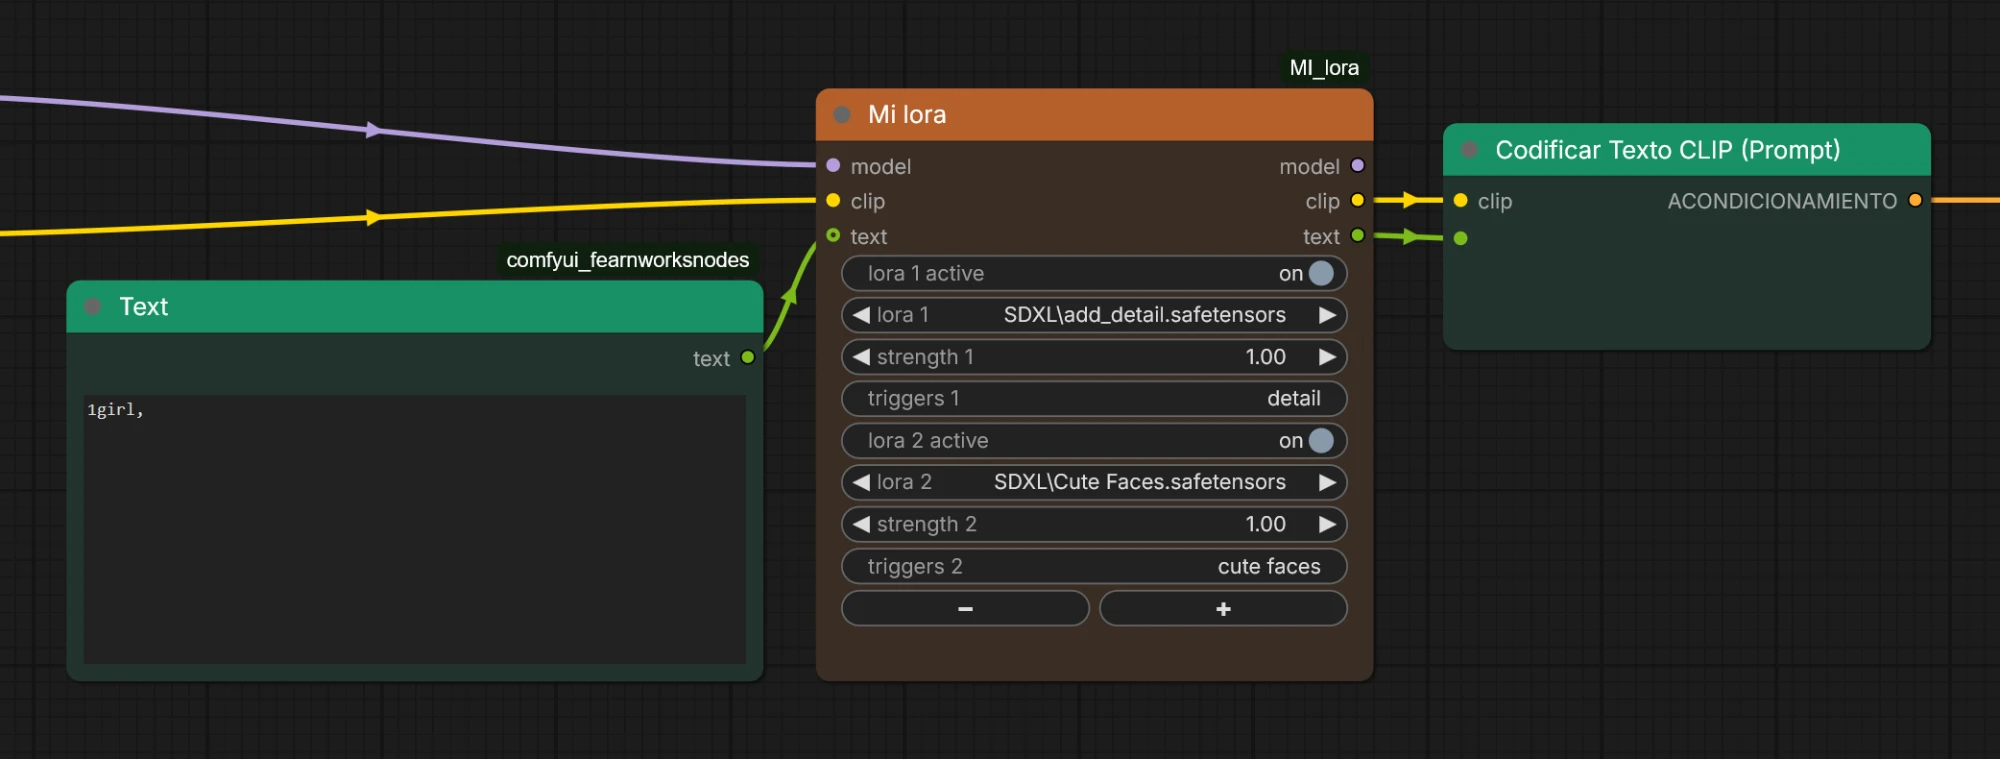
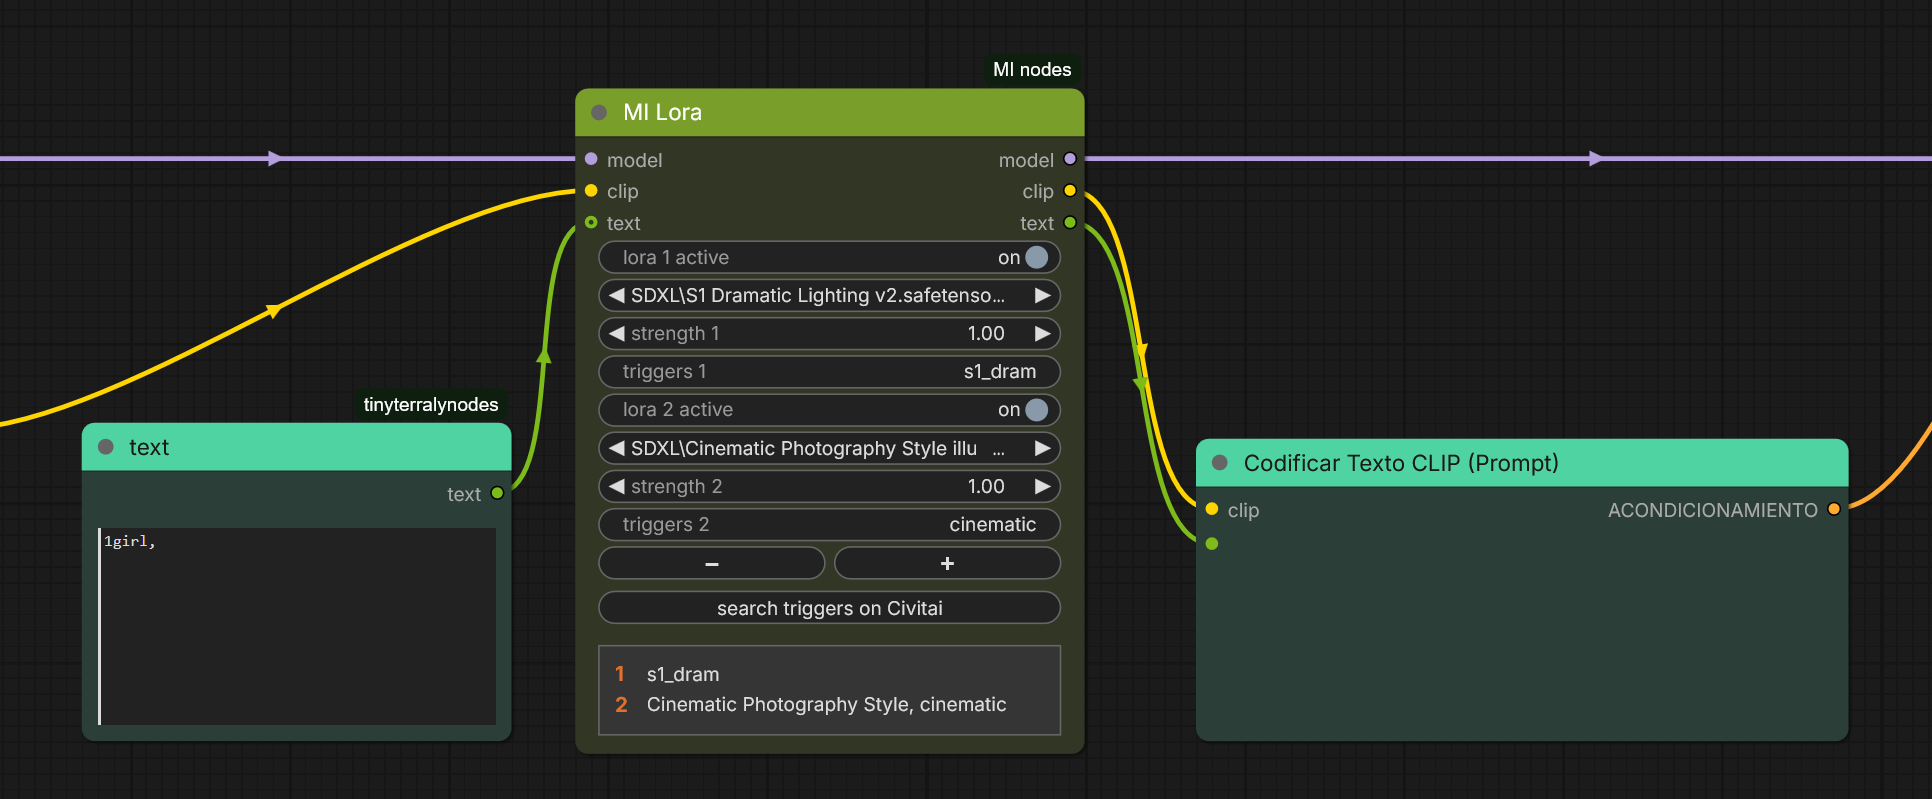
Add Civitai trigger lookup, new screenshot and README (synced with the MI nodes pack)

diff --git a/js/mi_lora.js b/js/mi_lora.js
@@ -158,6 +158,157 @@ app.registerExtension({
                 },
             });
 
+            // Civitai line: looks the active LoRAs up by file hash and lists their trigger words
+            // in a framed box; click a result to put its words in that row's `triggers` field
+            const M = 15, PAD = 10, GAP = 10, LINE_H = 17, NUM_W = 20;
+            // same text size and font as the rest of the node
+            const FONT = `${LiteGraph.NODE_SUBTEXT_SIZE}px ${LiteGraph.DEFAULT_FONT || "sans-serif"}`;
+            const civ = { state: "idle", rows: [] };
+            const measure = document.createElement("canvas").getContext("2d");
+            const fit = () => {
+                node.setSize([Math.max(node.size[0], 320), node.computeSize()[1]]);
+                node.setDirtyCanvas(true, true);
+            };
+            // split a result into lines that fit the box; continuation lines align with the text
+            const wrap = (text, maxW) => {
+                measure.font = FONT;
+                const out = [];
+                let line = "";
+                for (const word of text.split(" ")) {
+                    const test = line ? `${line} ${word}` : word;
+                    if (line && measure.measureText(test).width > maxW) {
+                        out.push(line);
+                        line = word;
+                    } else line = test;
+                }
+                if (line) out.push(line);
+                return out;
+            };
+            // wrapped lines and y offset (inside the box) of every result
+            const layout = (nodeW) => {
+                const maxW = nodeW - 2 * M - 2 * PAD - NUM_W;
+                let off = 0;
+                return civ.rows.map((r) => {
+                    const lines = wrap(r.text, maxW);
+                    const block = { r, lines, off };
+                    off += lines.length * LINE_H + 2;
+                    return block;
+                });
+            };
+            const boxHeight = (nodeW) => {
+                const b = layout(nodeW);
+                return b.length ? GAP + 2 * PAD + b[b.length - 1].off + b[b.length - 1].lines.length * LINE_H : 0;
+            };
+
+            const searchCivitai = async () => {
+                if (civ.state === "busy") return;
+                const rows = [];
+                for (let i = 1; i <= Number(countW.value); i++) {
+                    const lora = byName(`lora_${i}`).value;
+                    if (lora && lora !== NONE && byName(`on_${i}`).value) rows.push({ i, lora });
+                }
+                civ.state = "busy";
+                civ.rows = rows.map((r) => ({ ...r, text: "Searching...", words: null }));
+                fit();
+                await Promise.all(civ.rows.map(async (r) => {
+                    try {
+                        const res = await api.fetchApi(`/mi_lora/civitai?lora=${encodeURIComponent(r.lora)}`);
+                        const d = await res.json();
+                        if (!res.ok) r.text = d.error || "Error";
+                        else if (!d.found) r.text = "Not found on Civitai";
+                        else if (!d.words.length) r.text = "No trigger words";
+                        else {
+                            r.words = d.words.join(", ");
+                            r.text = r.words;
+                        }
+                    } catch (e) {
+                        r.text = "Could not reach Civitai";
+                    }
+                    node.setDirtyCanvas(true, true);
+                }));
+                civ.state = "idle";
+                fit();
+            };
+
+            node.addCustomWidget({
+                name: "mi_civitai",
+                type: "mi_civitai",
+                value: null,
+                serialize: false,
+                options: { serialize: false },
+                computeSize: (w) => [w, LiteGraph.NODE_WIDGET_HEIGHT + 4 + boxHeight(node.size?.[0] ?? w)],
+                draw(ctx, n, width, y, h) {
+                    const w = n.size[0] - 2 * M;
+                    this.y = y;
+                    this.h = h;
+                    const gm = app.canvas?.graph_mouse;
+                    const mx = gm ? gm[0] - n.pos[0] : -1;
+                    const my = gm ? gm[1] - n.pos[1] : -1;
+                    const over = (yy, hh) => my >= yy && my <= yy + hh && mx >= M && mx <= M + w;
+                    ctx.textBaseline = "middle";
+
+                    // search button
+                    ctx.fillStyle = over(y, h) ? "#E0702D" : LiteGraph.WIDGET_BGCOLOR;
+                    ctx.strokeStyle = LiteGraph.WIDGET_OUTLINE_COLOR;
+                    ctx.lineWidth = 1;
+                    ctx.beginPath();
+                    ctx.roundRect(M, y, w, h, h * 0.5);
+                    ctx.fill();
+                    ctx.stroke();
+                    ctx.fillStyle = LiteGraph.WIDGET_TEXT_COLOR;
+                    ctx.font = FONT;
+                    ctx.textAlign = "center";
+                    ctx.fillText(civ.state === "busy" ? "searching Civitai..." : "search triggers on Civitai", M + w / 2, y + h / 2 + 1);
+
+                    if (!civ.rows.length) return;
+                    const blocks = layout(n.size[0]);
+                    const top = y + h + 4 + GAP;
+                    const boxH = boxHeight(n.size[0]) - GAP;
+
+                    // framed results box
+                    ctx.fillStyle = "#353535";
+                    ctx.strokeStyle = LiteGraph.WIDGET_OUTLINE_COLOR;
+                    ctx.lineWidth = 1;
+                    ctx.beginPath();
+                    ctx.rect(M, top, w, boxH);
+                    ctx.fill();
+                    ctx.stroke();
+                    ctx.lineWidth = 1;
+
+                    ctx.textAlign = "left";
+                    blocks.forEach(({ r, lines, off }) => {
+                        const by = top + PAD + off;
+                        const hovered = r.words && over(by, lines.length * LINE_H);
+                        // number in orange, bold
+                        ctx.font = `bold ${LiteGraph.NODE_SUBTEXT_SIZE + 1}px ${LiteGraph.DEFAULT_FONT || "sans-serif"}`;
+                        ctx.fillStyle = "#E0702D";
+                        ctx.fillText(String(r.i), M + PAD, by + LINE_H / 2);
+                        // text: white, italic when there is nothing to use
+                        ctx.font = (r.words ? "" : "italic ") + FONT;
+                        ctx.fillStyle = hovered ? "#E0702D" : LiteGraph.WIDGET_TEXT_COLOR;
+                        lines.forEach((text, k) => ctx.fillText(text, M + PAD + NUM_W, by + k * LINE_H + LINE_H / 2));
+                    });
+                },
+                mouse(event, pos, n) {
+                    if (event.type !== "pointerdown" && event.type !== "mousedown") return false;
+                    if (pos[0] < M || pos[0] > n.size[0] - M || this.y == null) return false;
+                    if (pos[1] >= this.y && pos[1] <= this.y + this.h) {
+                        searchCivitai();
+                        return true;
+                    }
+                    const ry = pos[1] - (this.y + this.h + 4 + GAP + PAD);
+                    const hit = layout(n.size[0]).find((b) => ry >= b.off && ry < b.off + b.lines.length * LINE_H);
+                    const r = hit?.r;
+                    if (r && r.words) {
+                        byName(`triggers_${r.i}`).value = r.words;
+                        saveTriggers(byName(`lora_${r.i}`).value, r.words);
+                        n.setDirtyCanvas(true, true);
+                        return true;
+                    }
+                    return false;
+                },
+            });
+
             // redraw while the mouse moves over the node so the button hover updates
             node.onMouseMove = () => node.setDirtyCanvas(true, false);
 

diff --git a/__init__.py b/__init__.py
@@ -1,5 +1,11 @@
+import asyncio
+import hashlib
 import json
 import os
+import urllib.error
+import urllib.request
+
+DATA_DIR = os.path.dirname(os.path.abspath(__file__))
 
 import comfy.sd
 import comfy.utils
@@ -9,8 +15,7 @@ from aiohttp import web
 
 NONE = "(none)"
 MAX_ROWS = 8
-WEB_DIRECTORY = "./js"
-TRIGGERS_FILE = os.path.join(os.path.dirname(os.path.abspath(__file__)), "triggers.json")
+TRIGGERS_FILE = os.path.join(DATA_DIR, "triggers.json")
 
 
 def _load_triggers():
@@ -50,6 +55,68 @@ async def post_triggers(request):
         return web.json_response({"ok": False}, status=400)
     _set_trigger(lora, body.get("triggers", ""))
     return web.json_response({"ok": True})
+
+
+HASHES_FILE = os.path.join(DATA_DIR, "hashes.json")
+CIVITAI_API = "https://civitai.com/api/v1/model-versions/by-hash/"
+
+
+def _sha256(path):
+    """SHA256 of a file, cached by path + size + mtime."""
+    st = os.stat(path)
+    key = f"{st.st_size}:{int(st.st_mtime)}"
+    try:
+        with open(HASHES_FILE, "r", encoding="utf-8") as f:
+            cache = json.load(f)
+    except (OSError, ValueError):
+        cache = {}
+    entry = cache.get(path)
+    if isinstance(entry, dict) and entry.get("key") == key:
+        return entry["sha256"]
+    h = hashlib.sha256()
+    with open(path, "rb") as f:
+        for chunk in iter(lambda: f.read(1 << 20), b""):
+            h.update(chunk)
+    digest = h.hexdigest()
+    cache[path] = {"key": key, "sha256": digest}
+    with open(HASHES_FILE, "w", encoding="utf-8") as f:
+        json.dump(cache, f, indent=2)
+    return digest
+
+
+def _civitai_lookup(path):
+    digest = _sha256(path)
+    req = urllib.request.Request(CIVITAI_API + digest, headers={"User-Agent": "MI-nodes/1.0"})
+    try:
+        with urllib.request.urlopen(req, timeout=20) as r:
+            data = json.load(r)
+    except urllib.error.HTTPError as e:
+        if e.code == 404:
+            return {"found": False}
+        raise
+    model = data.get("model") or {}
+    return {
+        "found": True,
+        "model": model.get("name", ""),
+        "version": data.get("name", ""),
+        "base": data.get("baseModel", ""),
+        "words": [w.strip() for w in (data.get("trainedWords") or []) if isinstance(w, str) and w.strip()],
+        "url": f"https://civitai.com/models/{data.get('modelId')}?modelVersionId={data.get('id')}",
+    }
+
+
+@PromptServer.instance.routes.get("/mi_lora/civitai")
+async def get_civitai(request):
+    """Looks a LoRA up on Civitai by file hash (only the hash leaves this machine)."""
+    name = request.query.get("lora", "")
+    path = folder_paths.get_full_path("loras", name) if name and name != NONE else None
+    if not path:
+        return web.json_response({"error": "LoRA not found"}, status=400)
+    try:
+        result = await asyncio.get_running_loop().run_in_executor(None, _civitai_lookup, path)
+    except Exception as e:  # network down, API error, unreadable file...
+        return web.json_response({"error": f"{type(e).__name__}: {e}"}, status=502)
+    return web.json_response(result)
 
 
 def _lora_list():
@@ -128,3 +195,6 @@ class MI_lora:
 
 NODE_CLASS_MAPPINGS = {"MI_lora": MI_lora}
 NODE_DISPLAY_NAME_MAPPINGS = {"MI_lora": "MI Lora"}
+WEB_DIRECTORY = "./js"
+
+__all__ = ["NODE_CLASS_MAPPINGS", "NODE_DISPLAY_NAME_MAPPINGS", "WEB_DIRECTORY"]

diff --git a/README.md b/README.md
@@ -1,8 +1,12 @@
 # MI_lora
 
-A ComfyUI custom node (shown as **MI Lora**) that loads several LoRAs from a single node and **remembers the trigger words of each one**. Write the trigger words once; they are saved per LoRA, filled in automatically the next time you pick it, and sent as text to your prompt.
+[![License: MIT](https://img.shields.io/badge/license-MIT-orange.svg)](LICENSE)
+
+A ComfyUI custom node (shown as **MI Lora**) that loads several LoRAs from a single node and **remembers the trigger words of each one**. Write the trigger words once; they are saved per LoRA, filled in automatically the next time you pick it, and sent as text to your prompt. Not sure what a LoRA's trigger words are? **Look them up on Civitai** from the node.
 
 ![MI Lora node](images/screenshot.png)
+
+> **MI Lora is also part of the [MI nodes](https://github.com/ThinkingBells/MI_nodes) pack**, together with MI Unet Rate, MI Embedding, MI Compare 3 Images, MI Save Image and MI Reroute Sound. Install either this repository or the pack, not both: the node would appear twice.
 
 ## Why
 
@@ -14,6 +18,7 @@ Stacking LoRAs usually means a chain of loader nodes plus a notes file to rememb
 - **On / off per LoRA**: every row has its own switch. A row that is off is skipped: the LoRA is not applied and its trigger words are not sent. The fields of that row are greyed out, and the saved trigger words are kept.
 - **One strength per LoRA**: from -10 to 10, applied to both model and clip.
 - **Trigger words per LoRA**: type them in the `triggers` field of each row. They are saved for that LoRA and filled in automatically whenever you pick it again, in any node or workflow.
+- **Civitai lookup**: press **search triggers on Civitai** at the bottom of the node. Every active LoRA is looked up by its file hash and a framed box lists the trigger words found, one numbered result per row. Click a result to put its words in that row's `triggers` field. Long lists wrap onto several lines. Results without trigger words (or not found) are shown in italics and are not clickable.
 - **Sent as text**: the `text` output is your incoming prompt followed by the trigger words of every active LoRA, ready for a standard `CLIPTextEncode`.
 - **Subgraph friendly**: every row uses standard widgets, so they can be promoted to a subgraph.
 
@@ -26,13 +31,13 @@ cd ComfyUI/custom_nodes
 git clone https://github.com/ThinkingBells/MI_lora.git
 ```
 
-Then reload the browser tab (Ctrl+F5) so the new interface code is loaded. No extra dependencies are needed.
+Then reload the browser tab (Ctrl+F5) so the new interface code is loaded. No extra dependencies are needed. To update, run `git pull` inside the folder and restart.
 
 ## Usage
 
 1. Add the node: double-click the canvas and search for **MI Lora** (category `MI nodes`).
 2. Connect `model` and `clip`, and optionally a `STRING` prompt to `text`.
-3. Pick a LoRA, set its strength and write its trigger words (comma separated). Use `+` / `-` to add or remove rows.
+3. Pick a LoRA, set its strength and write its trigger words (comma separated), or fetch them from Civitai. Use `+` / `-` to add or remove rows.
 4. Connect `model` and `clip` to your sampler and text encoder, and `text` to the text input of a `CLIPTextEncode` node (convert the widget to an input first).
 
 ### Output example
@@ -47,9 +52,20 @@ With two LoRAs whose trigger words are `detail` (`add_detail`) and `cute faces` 
 
 Rows set to `(none)` are ignored.
 
+## Civitai lookup and privacy
+
+Nothing is sent until you press the search line. Then only the SHA256 hash of each active LoRA file is sent to `civitai.com`, never the file itself. Hashes are cached in `hashes.json`, so each file is hashed only once (the first search on a large LoRA can take a few seconds). A LoRA that is not on Civitai, or that lists no trigger words, is reported as such.
+
 ## Where the data is stored
 
-`triggers.json` in the node folder (LoRA name -> trigger words). It is created the first time you save trigger words and is ignored by git, so your personal notes are never committed. Back it up if you want to keep it. Nothing is sent anywhere.
+Two files in the node folder, both ignored by git so your personal data is never committed:
+
+| File | Content |
+|------|---------|
+| `triggers.json` | LoRA name to trigger words |
+| `hashes.json` | Cached SHA256 of your LoRA files, for the Civitai lookup |
+
+Back up `triggers.json` if you want to keep your notes. Nothing leaves your computer except the LoRA hash you send to Civitai when you press the search line.
 
 ## Good to know
 
@@ -59,8 +75,8 @@ Rows set to `(none)` are ignored.
 
 ## Files
 
-- `__init__.py`: node, LoRA loading, trigger storage and API routes.
-- `js/mi_lora.js`: frontend extension (row show/hide, `+` / `-` buttons, greyed rows, loading and saving of trigger words).
+- `__init__.py`: node, LoRA loading, trigger storage, Civitai lookup and API routes.
+- `js/mi_lora.js`: frontend extension (row show/hide, `+` / `-` buttons, greyed rows, trigger words, Civitai results box).
 
 ## License
 
